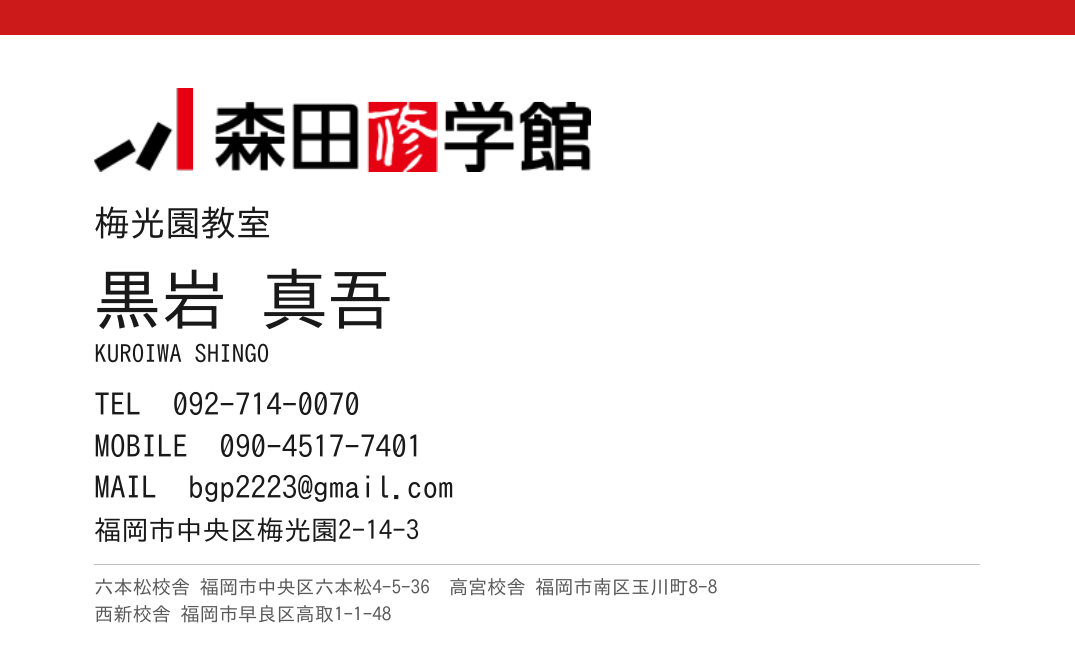
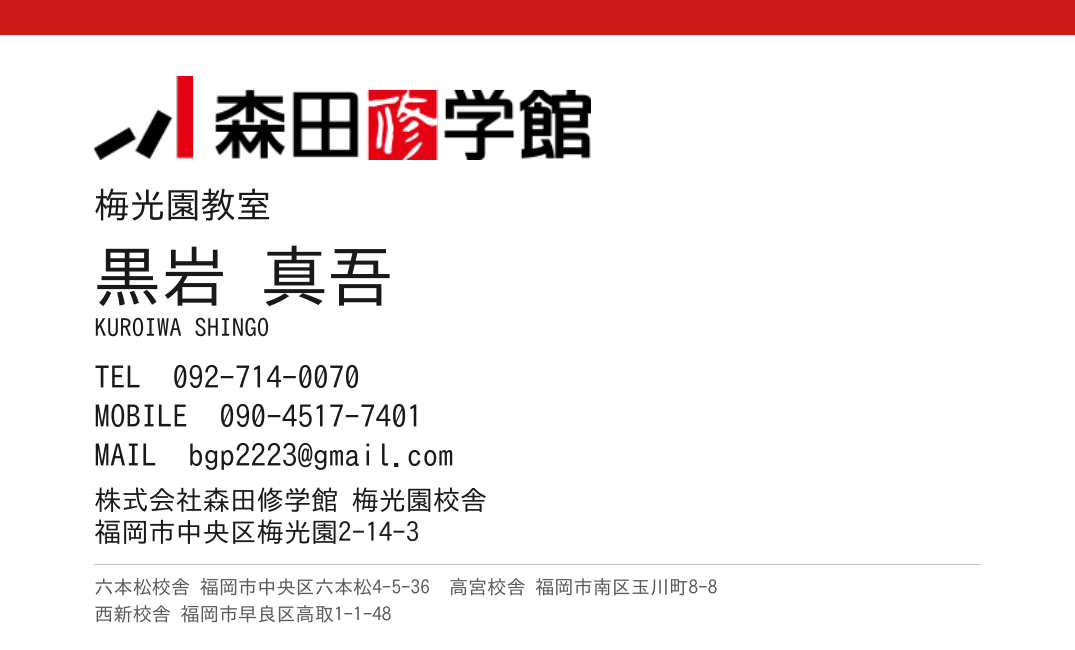
Add formal company name above address
Claude-Session: https://claude.ai/code/session_01UZjDUjJeLbn963uYfeSaJM

Changed region(s): [[0.0921, 0.0923, 0.5526, 0.8615]]

diff --git a/meishi/make.py b/meishi/make.py
@@ -8,16 +8,17 @@ pdfmetrics.registerFont(TTFont('G',p))
 W,H=91*mm,55*mm
 c=canvas.Canvas('meishi/meishi.pdf',pagesize=(W,H))
 c.setFillColorRGB(0.8,0.1,0.1); c.rect(0,H-3*mm,W,3*mm,stroke=0,fill=1)
-lw=42*mm; c.drawImage('meishi/logo.png',8*mm,H-14.5*mm,width=lw,height=lw/6,mask='auto')
+lw=42*mm; c.drawImage('meishi/logo.png',8*mm,H-13.5*mm,width=lw,height=lw/6,mask='auto')
 c.setFillColorRGB(0.1,0.1,0.1)
 def t(y,s,size): c.setFont('G',size); c.drawString(8*mm,H-y*mm,s)
-t(20,'梅光園教室',8.5)
-t(27.5,'黒岩 真吾',16)
-t(30.8,'KUROIWA SHINGO',6)
-t(35.3,'TEL  092-714-0070',7.5)
-t(38.8,'MOBILE  090-4517-7401',7.5)
-t(42.3,'MAIL  bgp2223@gmail.com',7.5)
-t(45.8,'福岡市中央区梅光園2-14-3',6.5)
+t(18.5,'梅光園教室',8.5)
+t(25.5,'黒岩 真吾',16)
+t(28.6,'KUROIWA SHINGO',6)
+t(33,'TEL  092-714-0070',7.5)
+t(36.3,'MOBILE  090-4517-7401',7.5)
+t(39.6,'MAIL  bgp2223@gmail.com',7.5)
+t(43.2,'株式会社森田修学館 梅光園校舎',6.5)
+t(45.9,'福岡市中央区梅光園2-14-3',6.5)
 c.setStrokeColorRGB(0.75,0.75,0.75); c.setLineWidth(0.3)
 c.line(8*mm,H-47.8*mm,W-8*mm,H-47.8*mm)
 c.setFillColorRGB(0.35,0.35,0.35)
